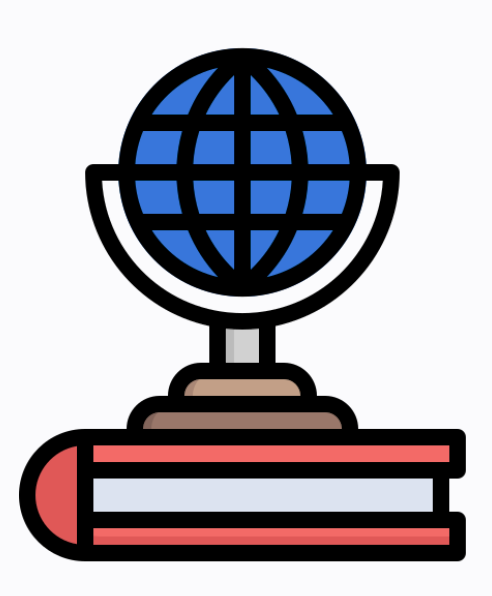
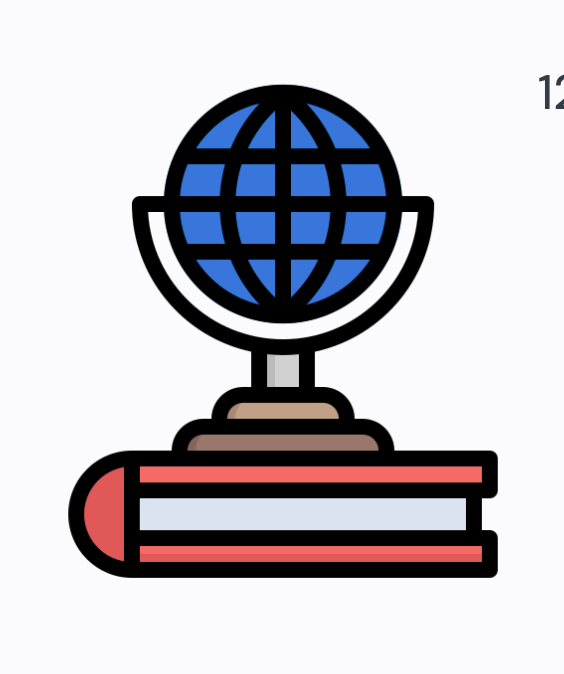
Fix work card images to use actual image paths instead of hardcoded fallbacks

diff --git a/src/data/WorkData.jsx b/src/data/WorkData.jsx
@@ -10,7 +10,7 @@ export const MLData = [
 		],
 		gitlink: "//github.com/anidixit64/vivre",
 		site: "https://vivre.readthedocs.io/en/latest/",
-		image: "/public/images/vivre-icon.png",
+		image: "/images/vivre-icon.png",
 	},
 	{
 		title: "Fifa Career Manager",
@@ -18,7 +18,7 @@ export const MLData = [
 		tech: ["Javascript", "HTML", "Next.js"],
 		gitlink: "https://github.com/anidixit64/fifa-manager",
 		site: "https://fifa-manager-black.vercel.app",
-		image: "/public/images/fifa-manager.png",
+		image: "/images/fifa-manager.png",
 	},
 	{
 		title: "Alexandria",
@@ -26,7 +26,7 @@ export const MLData = [
 		tech: ["Python", "Javascript", "HTML", "React.js", "CSS"],
 		gitlink: "https://github.com/anidixit64/fifa-manager",
 		site: "https://fifa-manager-black.vercel.app",
-		image: "/public/images/alexandria.png",
+		image: "/images/scroll_logo.png",
 	},
 	{
 		title: "HealthNav",
@@ -34,7 +34,7 @@ export const MLData = [
 		tech: ["Javascript", "HTML/CSS", "GoogleAPI", "Llama3", "OpenBio-LLM"],
 		gitlink: "//github.com/aarushisi/healthnav-webdev",
 		site: "//github.com/aarushisi/healthnav-webdev",
-		image: "/public/images/healthnav.png",
+		image: "/images/healthnav.png",
 	},
 	{
 		title: "Pro Interview Bot",
@@ -42,9 +42,9 @@ export const MLData = [
 		tech: ["OpenAI", "React.js", "CSS", "NLTK", "PyTorch"],
 		gitlink: "https://github.com/anidixit64/Interview-Evaluator",
 		site: "https://github.com/anidixit64/Interview-Evaluator",
-		image: "/public/images/app_icon.png",
+		image: "/images/app_icon.png",
 	},
 ];
 
 // Combine all works into a single array
-export const allWorks = [...MLData, ...FSData];
+export const allWorks = [...MLData];

diff --git a/src/components/WorkCard.jsx b/src/components/WorkCard.jsx
@@ -10,13 +10,12 @@ const WorkCard = ({ w }) => {
 	const [titleFontSize, setTitleFontSize] = useState(2.6);
 	const [descFontSize, setDescFontSize] = useState(1.4);
 
-	// Function to get the correct image based on the image path
-	const getImageSrc = (imagePath) => {
-		if (imagePath.includes('linguistics')) return "/images/linguistics.jpg";
-		if (imagePath.includes('parchment')) return "/images/parchment.jpg";
-		if (imagePath.includes('self')) return "/images/self.jpg";
-		return "/images/linguistics.jpg"; // fallback
-	};
+
+
+
+
+
+
 
 	// Function to adjust font size to fit container
 	const adjustFontSize = (element, targetHeight, baseFontSize) => {
@@ -103,7 +102,7 @@ const WorkCard = ({ w }) => {
 		<div 
 			className='works-card'
 			style={{
-				backgroundImage: `url(${getImageSrc(w.image)})`,
+				backgroundImage: `url(${w.image})`,
 				backgroundSize: 'cover',
 				backgroundPosition: 'center',
 				backgroundRepeat: 'no-repeat'

diff --git a/src/App.jsx b/src/App.jsx
@@ -9,8 +9,8 @@ function App() {
   const [showShimmer, setShowShimmer] = useState(false);
 
   useEffect(() => {
-    const loadTimer = setTimeout(() => setLoading(false), 3000);
-    const shimmerTimer = setTimeout(() => setShowShimmer(true), 1500);
+    const loadTimer = setTimeout(() => setLoading(false), 1000);
+    const shimmerTimer = setTimeout(() => setShowShimmer(true), 500);
 
     return () => {
       clearTimeout(loadTimer);
